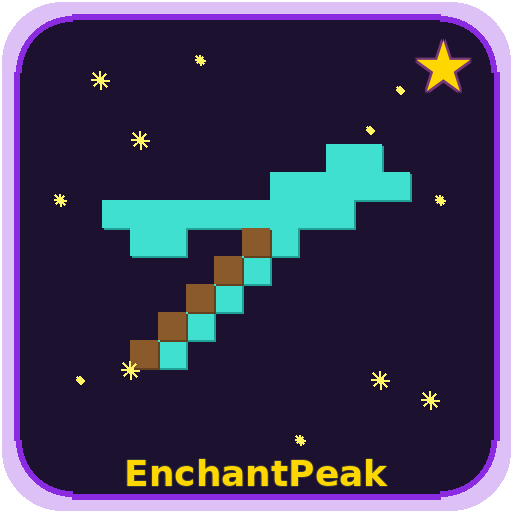
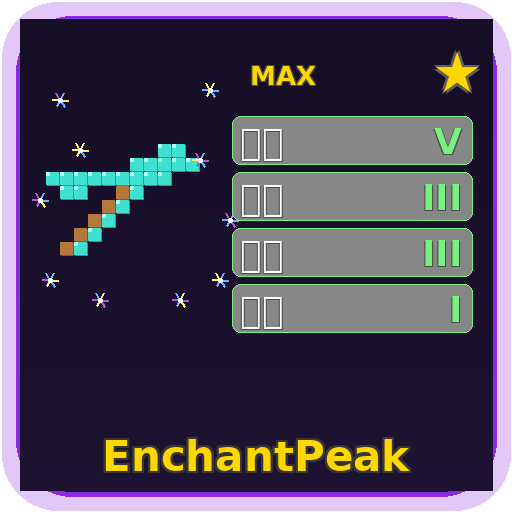
fix: ResourceKey.location() → identifier() for MC 26.2
CI build failed because MC 26.2 renamed ResourceKey.location() to
identifier(). Local build passed due to stale loom cache.

Also regenerate mod icon v2: pixel-art diamond pickaxe + enchantment
particles + MAX badge + visible enchant list (效率V 时运III 耐久III 修补I)
to convey 'fully enchanted' at a glance.

diff --git a/src/main/java/com/zhaojiedi1992/enchantpeak/rei/ReiEnchantPlugin.java b/src/main/java/com/zhaojiedi1992/enchantpeak/rei/ReiEnchantPlugin.java
@@ -191,7 +191,7 @@ public class ReiEnchantPlugin implements REIClientPlugin {
     private static String getEnchantmentId(Holder<Enchantment> holder) {
         return holder.unwrapKey()
                 .map(key -> {
-                    Identifier id = key.location();
+                    Identifier id = key.identifier();
                     return id != null ? id.getPath() : "";
                 })
                 .orElse("");
